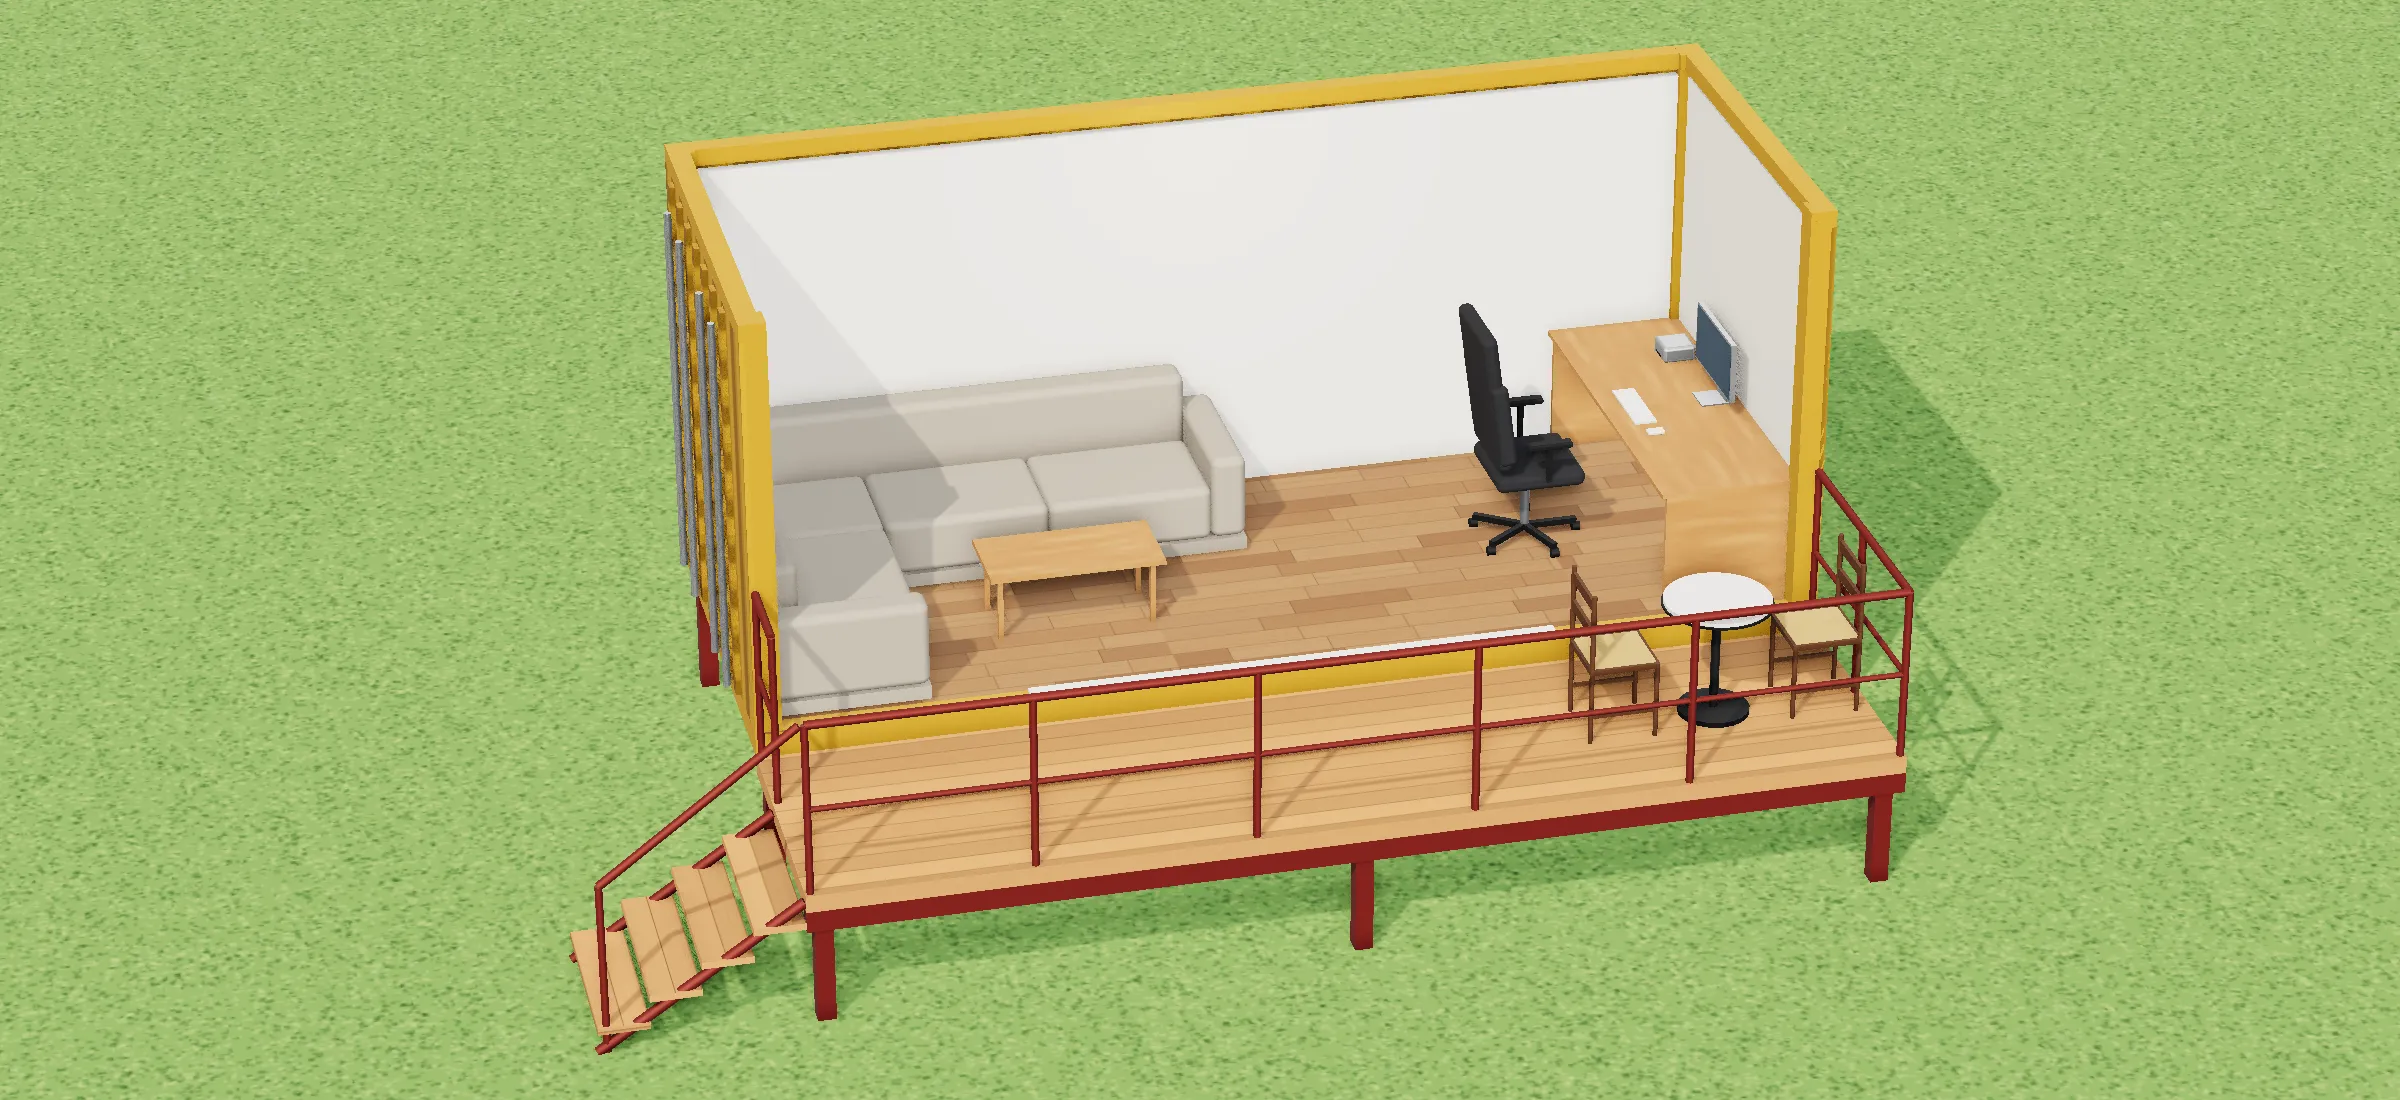
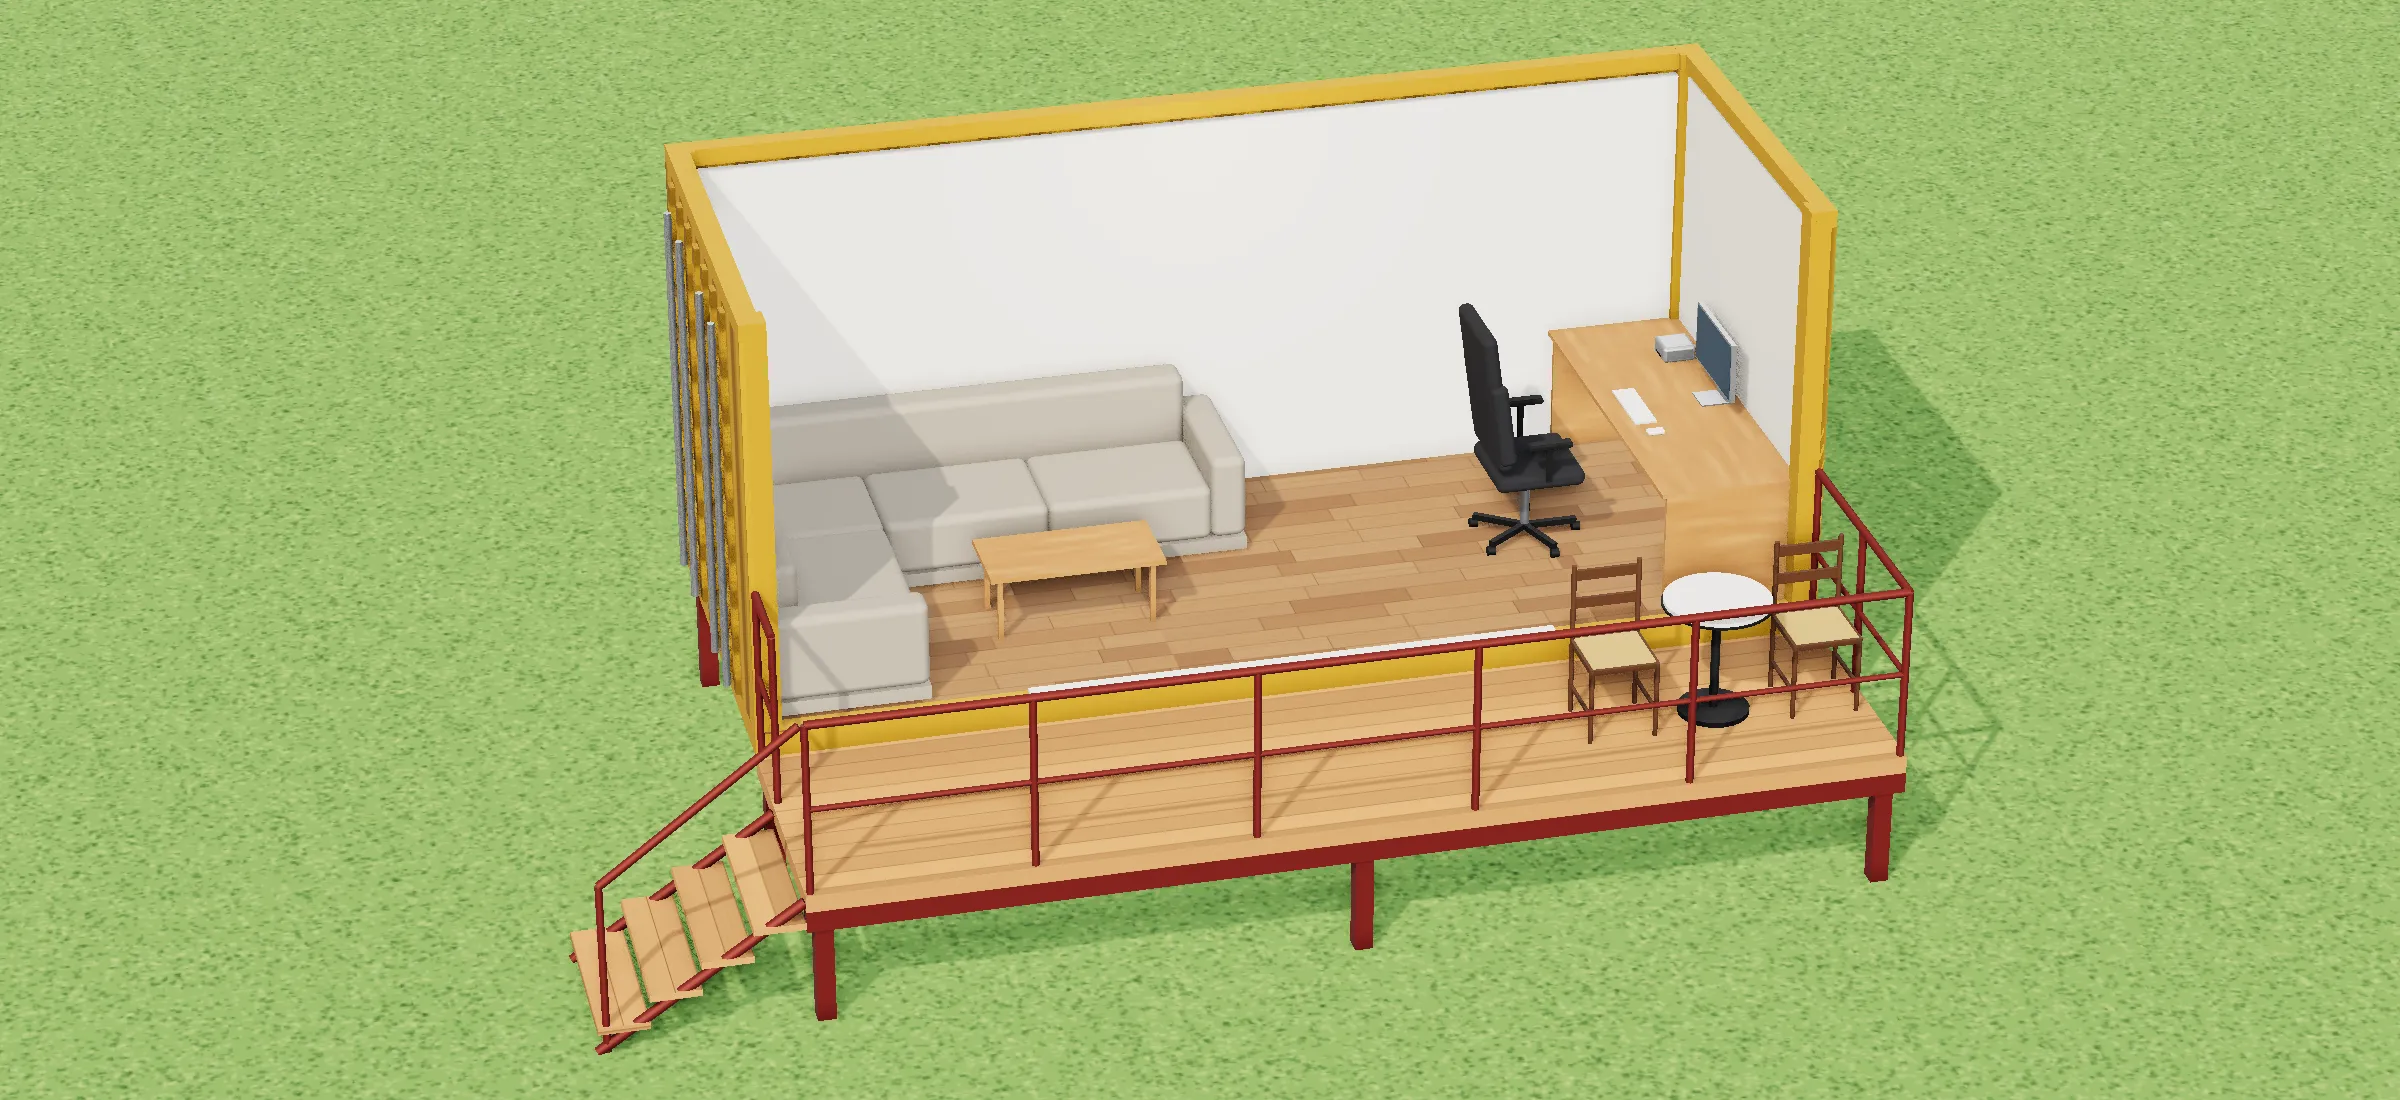
feat(office): the ahwa chairs look out over the garden
The founder asked for the two café chairs to face the front garden rather
than each other; the table stays between them.

Changed region(s): [[0.6562, 0.4945, 0.6875, 0.68], [0.7188, 0.4636, 0.7812, 0.5564], [0.7188, 0.5873, 0.8125, 0.6491]]

diff --git a/src/lib/design-blur.generated.ts b/src/lib/design-blur.generated.ts
@@ -23,7 +23,7 @@ export const DESIGN_BLUR: Record<string, string> = {
[8 lines of base64/hex data omitted]

diff --git a/src/components/office/office-plan.tsx b/src/components/office/office-plan.tsx
@@ -120,10 +120,10 @@ export function OfficePlan({ title, className }: { title: string; className?: st
       <text x={f(ix1 - 0.27)} y={0} transform={`rotate(-90 ${f(ix1 - 0.27)} 0)`} textAnchor="middle" style={small}>STUDIO DISPLAY</text>
       <text x={f((ix0 + sofa.d + sofa.x1 - sofa.arm) / 2)} y={f(iy0 + (sofa.rest + sofa.d) / 2 + 0.035)} textAnchor="middle" style={small}>SOFA</text>
       <text x={f((sofa.table.x0 + sofa.table.x1) / 2)} y={f((sofa.table.y0 + sofa.table.y1) / 2 + 0.035)} textAnchor="middle" style={small}>TABLE</text>
-      {/* The ahwa set on the deck: the round marble table on its pedestal, a chair either side facing it */}
+      {/* The ahwa set on the deck: the round marble table on its pedestal, a chair either side, both looking out over the garden */}
       <circle cx={cafe.table.x} cy={cafe.table.y} r={cafe.table.r} {...thin} />
       <circle cx={cafe.table.x} cy={cafe.table.y} r={0.08} {...faint} />
-      {cafe.chairs.map(([x, y]) => <Chair key={x} x={x} y={y} s={cafe.chair.w} toward={x < cafe.table.x ? "right" : "left"} />)}
+      {cafe.chairs.map(([x, y]) => <Chair key={x} x={x} y={y} s={cafe.chair.w} toward="down" />)}
       <text x={cafe.table.x} y={f(cafe.table.y + cafe.table.r + 0.16)} textAnchor="middle" style={small}>CAFE</text>
       <text x={f((g0 + g1) / 2)} y={f(front - 0.16)} textAnchor="middle" style={small}>SLIDING GLAZING</text>
       <text x={f(L / 2)} y={f(edge - 0.55)} textAnchor="middle" style={label}>DECK</text>

diff --git a/scripts/site/render/office.html b/scripts/site/render/office.html
@@ -430,7 +430,7 @@ function panelDesk(x0, z0, x1, z1, h) {
 }
 
 // the ahwa set on the deck, as in a traditional Egyptian cafe: a round marble top on a cast-iron pedestal, two
-// dark wooden chairs with woven rush seats and a two-rail back, facing each other across it
+// dark wooden chairs with woven rush seats and a two-rail back, either side of it, both looking out over the garden
 function cafeChair(x, z, rot) {
   const { w, d, seat, back } = cafe.chair
   const g = new THREE.Group(); g.position.set(x, Y0, z); g.rotation.y = rot
@@ -456,7 +456,7 @@ function cafeChair(x, z, rot) {
   cyl(x, y, 0.025, Y0 + 0.03, h - 0.06, "black", 10)
   cyl(x, y, r + 0.01, Y0 + h - 0.035, 0.012, "black", 40)
   cyl(x, y, r, Y0 + h - 0.025, 0.025, "marble", 40)
-  for (const [k, [cx, cz]] of cafe.chairs.entries()) { TAG = k ? `cafechair#${k}` : "cafechair"; cafeChair(cx, cz, cx < x ? Math.PI / 2 : -Math.PI / 2) }
+  for (const [k, [cx, cz]] of cafe.chairs.entries()) { TAG = k ? `cafechair#${k}` : "cafechair"; cafeChair(cx, cz, 0) }
 }
 
 TAG = ""
